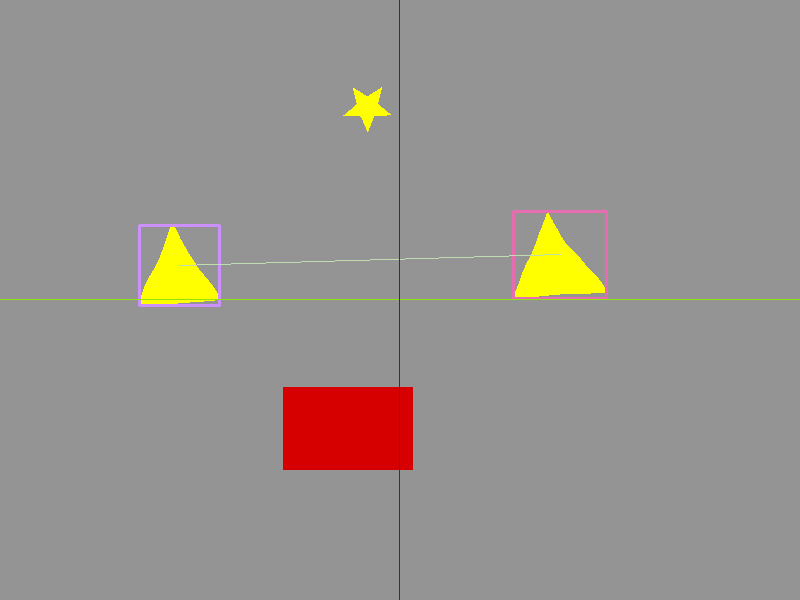
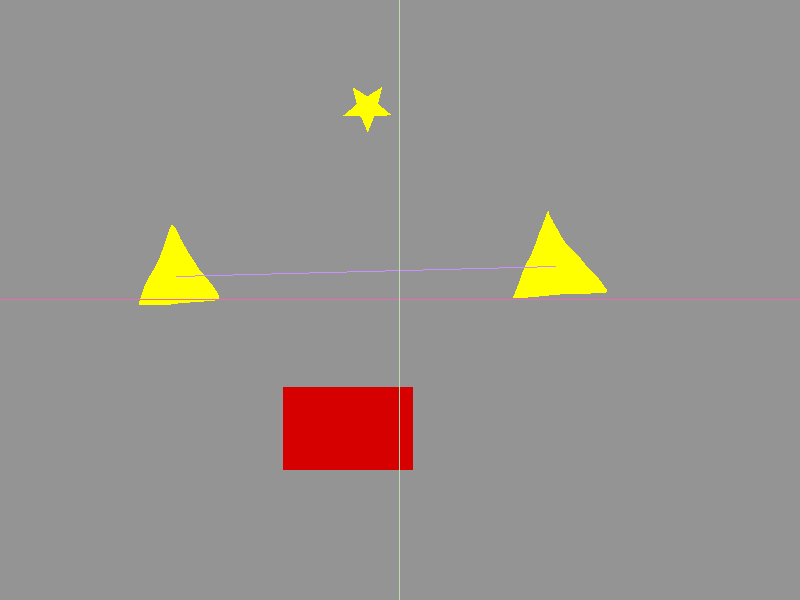
use moments instead of rectangles for center of triangles

Changed region(s): [[0.5312, 0.33, 0.7812, 0.51], [0.1562, 0.36, 0.2812, 0.51]]

diff --git a/main.cpp b/main.cpp
@@ -105,6 +105,13 @@ int main(int argc, char** argv) {
 		cout << "Error, did not find 2 triangles." << endl;
 	}
 	
+	//get the moments
+	vector<Moments> mo(2);
+	for (unsigned int i = 0; i < 2; i++) {
+		mo[i] = moments(triangles[i], 0);
+	}
+	
+#if 0
 	//get bounding rectangles around the triangles, might be easier to work with
 	vector<Rect> rectangles(2);
 	for (unsigned int i = 0; i < 2; i++) {
@@ -113,13 +120,17 @@ int main(int argc, char** argv) {
 		Scalar color = Scalar( rng.uniform(0, 255), rng.uniform(0,255), rng.uniform(0,255) );
 		rectangle( frame, rectangles[i].tl(), rectangles[i].br(), color, 2, 8, 0 );
 	}
-	
+#endif
 	/* get the centers */
 	vector<Point> centers(2);
 	for (unsigned int i = 0; i < 2; i++) {
-		centers[i] = (rectangles[i].tl() + rectangles[i].br()) * .5;
+		//centers[i] = (rectangles[i].tl() + rectangles[i].br()) * .5;
+		double CX, CY;
+		CX = mo[i].m10 / mo[i].m00;
+		CY = mo[i].m01 / mo[i].m00;
+		centers[i] = Point((int)CX, (int)CY);
 	}
-	
+
 	//draw a line connecting the 2 rectangles
 	//another lines through the middle of the horizontal and vertical axis
 	line(frame, centers[0], centers[1], Scalar( rng.uniform(0, 255), rng.uniform(0,255), rng.uniform(0,255) ));
